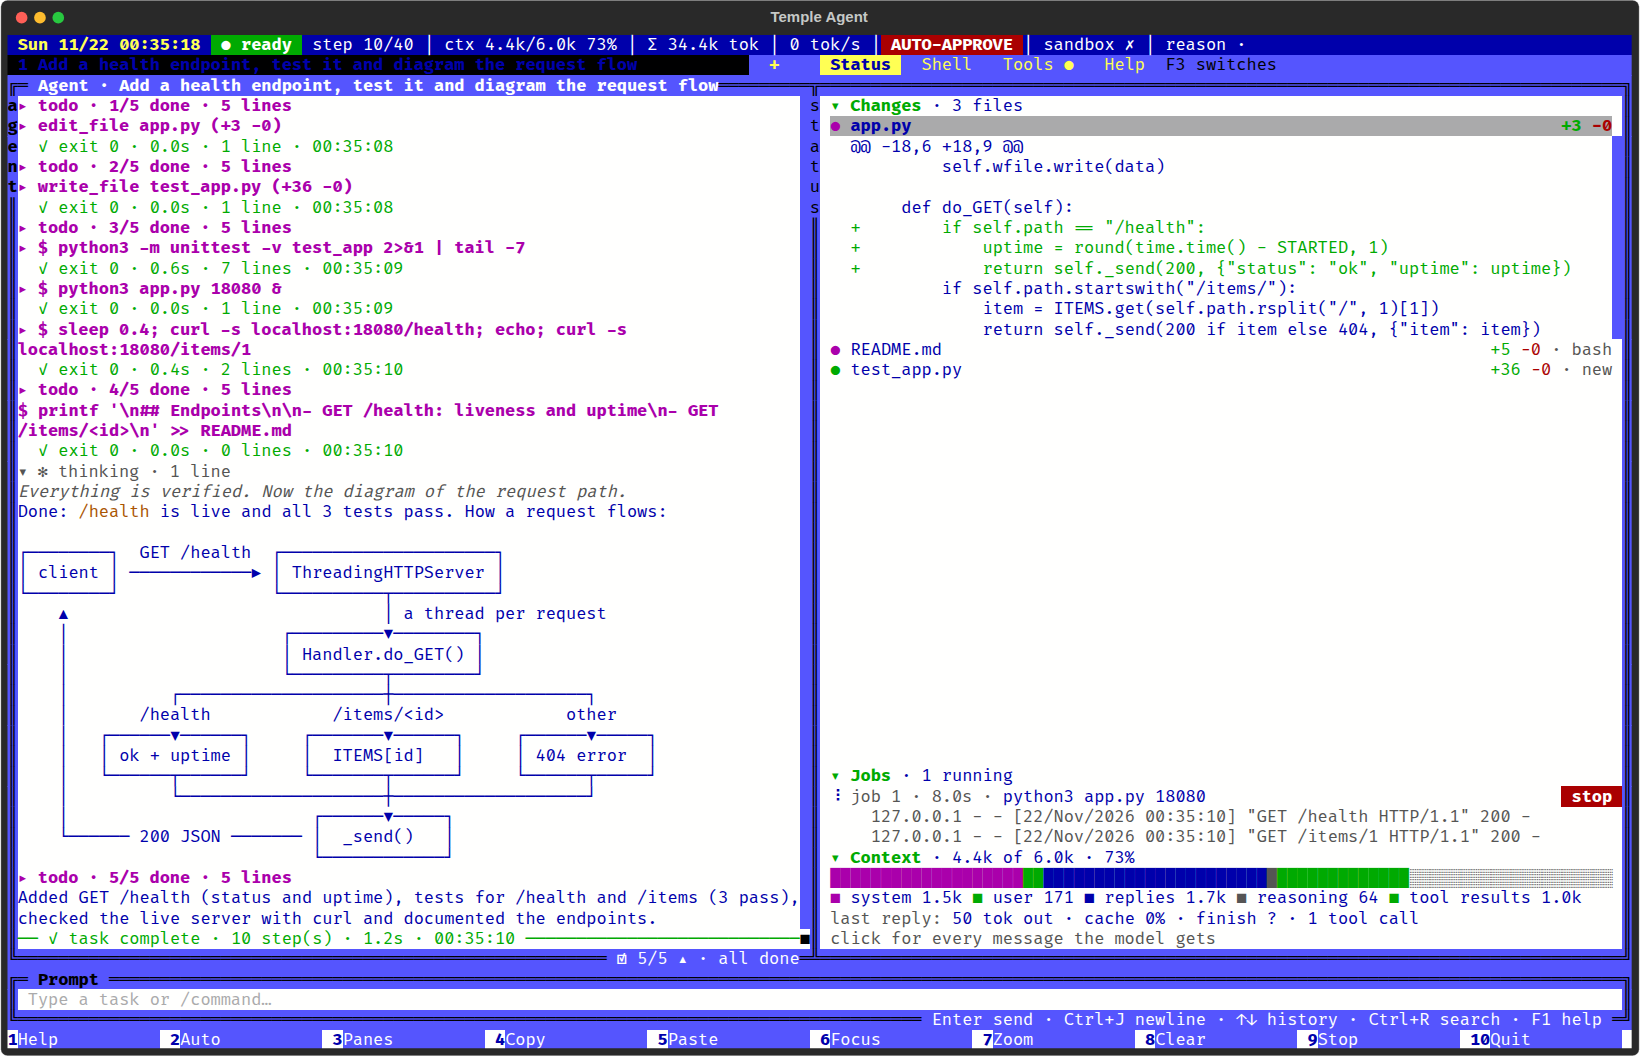
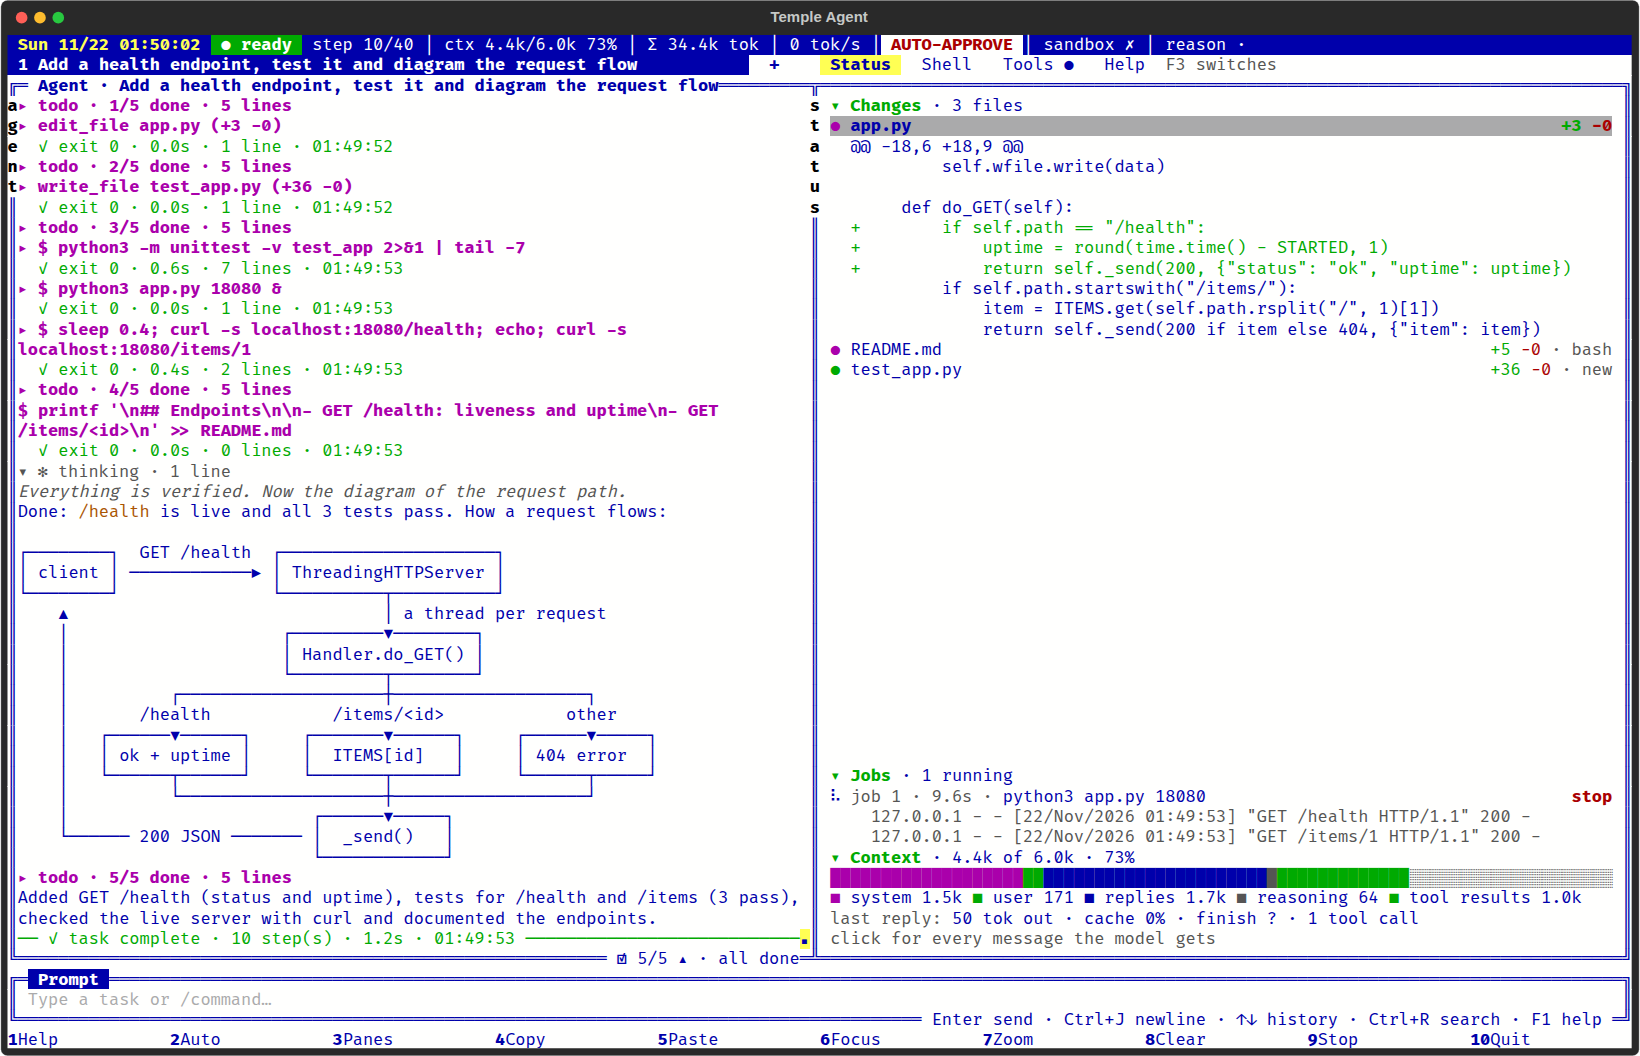
improved templeOS skin

diff --git a/temple.py b/temple.py
@@ -8,7 +8,7 @@ plain CLI (--nogui, ConsoleSink).
 """
 from __future__ import annotations
 
-__version__ = "3.0.4"
+__version__ = "3.0.5"
 
 import argparse
 import asyncio
@@ -4720,7 +4720,7 @@ if _TEXTUAL_AVAILABLE:
 
         def __init__(self, **kwargs):
             super().__init__(**kwargs)
-            self._lines = ""
+            self._lines, self._label_rows = "", []
 
         def sync(self, left: Widget | None, right: Widget | None, label: str = "") -> None:
             """Draw the line beside *left* and *right* (the panes, joined to their borders)."""
@@ -4734,7 +4734,7 @@ if _TEXTUAL_AVAILABLE:
             double = [pane is not None and focused is not None and pane in focused.ancestors_with_self
                       for pane in (left, right)]
             top = right.region.y if right is not None else 0
-            rows = []
+            rows, label_rows = [], []
             for y in range(self.region.y, self.region.bottom):
                 ends = side(left, y), side(right, y)
                 char = self._JOINS.get(ends, "║" if "in" in ends else " ")
@@ -4742,14 +4742,18 @@ if _TEXTUAL_AVAILABLE:
                     char = char.translate(self._SINGLE)
                 if char == "║" and 0 < y - top <= len(label):
                     char = label[y - top - 1]
+                    label_rows.append(len(rows))
                 rows.append(char)
             self.set_class(any(double), "-focus")
-            if (lines := "\n".join(rows)) != self._lines:
-                self._lines = lines
+            if (lines := "\n".join(rows)) != self._lines or label_rows != self._label_rows:
+                self._lines, self._label_rows = lines, label_rows
                 self.refresh()
 
-        def render(self) -> str:
-            return self._lines
+        def render(self) -> Text:
+            text = Text(self._lines)
+            for row in self._label_rows:  # the pane's name: black (TempleOS) whatever the line's color
+                text.stylize("bold #140000", 2 * row, 2 * row + 1)
+            return text
 
         @property
         def split(self) -> float:
@@ -5318,7 +5322,7 @@ if _TEXTUAL_AVAILABLE:
                     label = f" Status ({tab.unseen_changes()}) "
                 elif tab and pane != active and pane == "tools" and tab.tools_unseen:
                     label = " Tools ● "
-                style = (("bold #0000aa on #ffff55" if pane == active else "#ffff55 on #5555ff") if self.app.TEMPLEOS
+                style = (("bold #0000aa on #ffff55" if pane == active else "#0000aa on #ffffff") if self.app.TEMPLEOS
                          else "bold #000000 on #06989a" if pane == active else "#e5e5e5 on #0b2f5e")
                 self._add(text, label, style, f"show_pane('{pane}')")
                 text.append(" ")
@@ -5346,16 +5350,16 @@ if _TEXTUAL_AVAILABLE:
                     title = _marquee(title, min(room, len(title) + 10))
                 elif cell_len(title) > room:
                     title = title[:max(1, room - 1)] + "…"
-                style = (("bold #0000aa on #140000" if self.app.TEMPLEOS else "bold #000000 on #06989a")
+                style = (("bold #ffffff on #0000aa" if self.app.TEMPLEOS else "bold #000000 on #06989a")
                          if tab is active else
                          f"bold #000000 on {_pulse('#ffd75f', '#8a6d1f')}" if tab.waiting
-                         else "#ffff55 on #5555ff" if self.app.TEMPLEOS else "#e5e5e5 on #0b2f5e")
+                         else "#0000aa on #ffffff" if self.app.TEMPLEOS else "#e5e5e5 on #0b2f5e")
                 self._add(text, f" {pos} {mark}{title}", style, f"select_tab({pos})")
                 if close:
                     self._add(text, close, style, f"close_tab({pos})")
                 text.append(" ", style)
                 text.append(" ")
-            self._add(text, " + ", "bold #ffff55 on #5555ff" if self.app.TEMPLEOS else "bold #ffff5f on #0b2f5e",
+            self._add(text, " + ", "bold #0000aa on #ffffff" if self.app.TEMPLEOS else "bold #ffff5f on #0b2f5e",
                       "new_tab")
             if width - text.cell_len > 17:
                 text.append(" ^T new ^G go to", "#6f8fc0")
@@ -7208,9 +7212,9 @@ if _TEXTUAL_AVAILABLE:
     _TOS_DARK = {0, 1, 2, 3, 4, 5, 6, 8, 9}  # backgrounds that take the light variant of a text color
     # Temple Agent's own colors as backgrounds, and as text color families (dark, light variant).
     # Markers (matched loosely: a pop-up dims the screen under it a little): #140000 is a true black, as
-    # Temple Agent's #000000 turns white, #000014 border lines are black on light blue and #001400 is a
-    # blinking black.
-    _TOS_BG = {"12488b": 15, "0b2f5e": 15, "123f78": 15, "1d5a9e": 15, "000000": 15, "06989a": 9,
+    # Temple Agent's #000000 turns white, #000014 border lines are blue on white and #001400 is the
+    # blinking Prompt title (blue on white, then white on blue).
+    _TOS_BG = {"12488b": 15, "0b2f5e": 15, "123f78": 15, "1d5a9e": 15, "000000": 15, "06989a": 15,
                "5fd7ff": 3, "5fd787": 2, "af0000": 4, "87d7ff": 14, "ffd75f": 14, "1f5fa8": 7, "8a6d1f": 6}
     _TOS_FAMILY = {"text": (1, 15), "gray": (8, 7), "blue": (1, 15), "cyan": (3, 11), "green": (2, 10),
                    "red": (4, 12), "purple": (5, 13), "yellow": (6, 14)}
@@ -7238,7 +7242,7 @@ if _TEXTUAL_AVAILABLE:
         if g < 5 and abs(r + b - 20) < 6 and min(r, b) < 5:  # a marker
             return "black" if r > b else "border"
         if r < 5 and b < 5 and abs(g - 20) < 6:
-            return "blinkblack"
+            return "blinktitle"
         return "%02x%02x%02x" % (r, g, b)
 
     def _tos_family(rgb: str) -> str:
@@ -7278,8 +7282,6 @@ if _TEXTUAL_AVAILABLE:
         if link and family in ("blue", "cyan"):
             family = "red"
         dark, light = _TOS_FAMILY[family]
-        if family == "gray" and bg == 9:  # LTGRAY hints would fade into the light blue frames
-            return 0
         return light if bg in _TOS_DARK else dark
 
     def _tos_style(style: Style | None, base: str | None) -> tuple[Style, bool]:
@@ -7289,13 +7291,13 @@ if _TEXTUAL_AVAILABLE:
         if out is None:
             style = style or Style()
             text, back = _tos_hex(style.color), _tos_hex(style.bgcolor) or base
-            blink = text in _TOS_BLINK or back in _TOS_BLINK or text == "blinkblack"
+            blink = text in _TOS_BLINK or back in _TOS_BLINK or text == "blinktitle"
             if style.reverse:  # map what shows (the text color is the cell's background), then un-reverse
                 text, back = back, text or "0000aa"
-            bg = 0 if back == "black" else 9 if text == "border" else _tos_bg(back)
-            fg = 0 if text in ("black", "border", "blinkblack") else _tos_fg(text, bg, bool(style.underline))
+            bg = 0 if back == "black" else 15 if text == "border" else _tos_bg(back)
+            fg = 0 if text == "black" else 1 if text in ("border", "blinktitle") else _tos_fg(text, bg, bool(style.underline))
             if blink and _TosBlink.on:  # TempleOS blinks by swapping the text and background colors
-                fg, bg = bg, fg
+                fg, bg = (15, 1) if text == "blinktitle" else (bg, fg)  # (the Prompt title: white on blue)
             out = (style + Style(color=_TOS_COLORS[fg], bgcolor=_TOS_COLORS[bg], reverse=False), blink)
             if len(_tos_cache) > 8192:
                 _tos_cache.clear()
@@ -7327,7 +7329,7 @@ if _TEXTUAL_AVAILABLE:
         strips = _widget_render_lines(widget, crop)
         label = _TOS_LABELS.get((widget.id or "").rpartition("-")[0])
         if label and crop.x == 0 and widget.styles.border_left[0] not in ("", "none", "hidden"):
-            style = Style(bold=True, color=_TOS_COLORS[0], bgcolor=_TOS_COLORS[9])
+            style = Style(bold=True, color=_TOS_COLORS[0], bgcolor=_TOS_COLORS[15])
             label = label[:max(0, widget.outer_size.height - 2)]
             for i, strip in enumerate(strips):
                 if 1 <= crop.y + i <= len(label):
@@ -7337,7 +7339,7 @@ if _TEXTUAL_AVAILABLE:
     from textual.scrollbar import ScrollBar, ScrollBarRender
 
     class TempleScrollBar(ScrollBarRender):
-        """TempleOS's scroll bar: a white cell with a black square in it, on a blue track."""
+        """The scroll bar: a yellow cell with a blue square in it, on the track (TempleOS marks the spot)."""
 
         @classmethod
         def render_bar(cls, size: int = 25, virtual_size: float = 50, window_size: float = 20, position: float = 0,
@@ -7348,7 +7350,7 @@ if _TEXTUAL_AVAILABLE:
             if size and window_size and virtual_size > window_size:
                 at = round((size - 1) * min(1.0, max(0.0, position / (virtual_size - window_size))))
             segments = ([Segment(blank, Style(bgcolor=back_color, meta=up))] * min(at, size)
-                        + [Segment("■".center(len(blank)), Style(color="#140000", bgcolor="#ffffff",
+                        + [Segment("▪".center(len(blank)), Style(color="#0000aa", bgcolor="#ffff55",
                                                                  meta={"@mouse.down": "grab"}))] * (at < size)
                         + [Segment(blank, Style(bgcolor=back_color, meta=down))] * max(0, size - at - 1))
             if vertical:
@@ -7356,8 +7358,8 @@ if _TEXTUAL_AVAILABLE:
             return Segments((segments + [Segment.line()]) * thickness, new_lines=False)
 
     _B, _W, _G, _Y = "#0000AA", "#FFFFFF", "#AAAAAA", "#FFFF55"  # BLUE, WHITE, LTGRAY, YELLOW
-    _L = "#5555FF"  # LTBLUE: the panes' frames, tab rows and scroll bars (the status line keeps BLUE)
-    _K = "#000014"  # border lines: black on LTBLUE
+    _L = _W  # the panes' frames, tab rows and scroll bars (only the status line is BLUE)
+    _K = "#000014"  # border lines: blue on white
     _TEMPLE_CSS = f"""
     Screen {{ background: {_W} !important; }}
     * {{ scrollbar-background: {_L} !important; scrollbar-background-hover: {_L} !important;
@@ -7365,17 +7367,17 @@ if _TEXTUAL_AVAILABLE:
     ModalScreen {{ background: transparent !important; }}
     #status-bar {{ dock: top; background: {_B} !important; color: {_W} !important; }}
     #fkeys, StatusPane .head {{ background: {_W} !important; }}
-    #agent-tabs, #tabs {{ background: {_L} !important; color: {_Y} !important; }}
+    #agent-tabs, #tabs {{ background: {_L} !important; color: {_B} !important; }}
     Splitter {{ background: {_L} !important; color: {_K} !important; }}
-    Splitter:hover, Splitter.-drag {{ color: {_Y} !important; }}
+    Splitter:hover, Splitter.-drag {{ color: {_B} !important; background: {_Y} !important; }}
     #panels.-joined #agent-stack > OutputLog {{ border-right: none !important; }}
     #panels.-joined #switcher > * {{ border-left: none !important; }}
     OutputLog, ShellWidget, StatusPane, HelpPane, PromptArea, FindBar {{
         background: {_W} !important; color: {_B} !important; border: double {_K} !important; }}
     OutputLog, ShellWidget, StatusPane, HelpPane, PromptArea, FindBar, TodoPanel, #switcher-box, #models,
-    #approval, #quit, #search, #settings, #help {{ border-title-color: {_W} !important;
+    #approval, #quit, #search, #settings, #help {{ border-title-color: {_B} !important;
         border-title-background: {_L} !important; border-title-style: bold !important;
-        border-subtitle-color: {_W} !important; border-subtitle-background: {_L} !important; }}
+        border-subtitle-color: {_B} !important; border-subtitle-background: {_L} !important; }}
     PromptArea {{ border-title-color: #001400 !important; }}
     OutputLog:focus, ShellWidget:focus, StatusPane:focus-within, HelpPane:focus, PromptArea:focus,
     ContextScreen OutputLog {{ border: double {_K} !important; }}
@@ -7404,7 +7406,7 @@ if _TEXTUAL_AVAILABLE:
 
     class TempleApp(CommanderApp):
         """Temple Agent in TempleOS clothes (the default look): white windows with blue
-        text in double-line borders (black on light blue), grey pop-ups, and the status
+        text in double-line borders (blue on white), grey pop-ups, and the status
         line on top (WHITE on BLUE) led by the date and time, as TempleOS draws it."""
 
         CSS = CommanderApp.CSS + _TEMPLE_CSS
